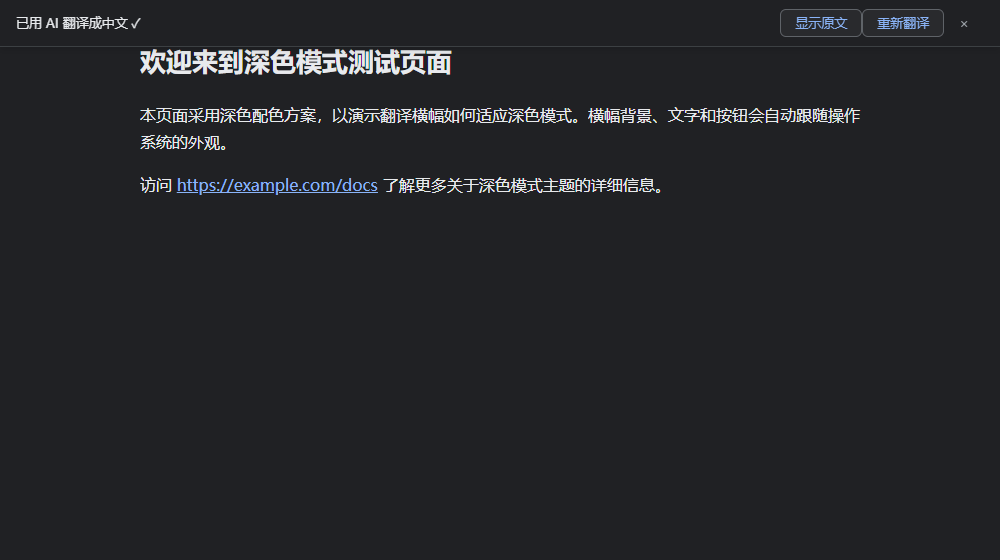
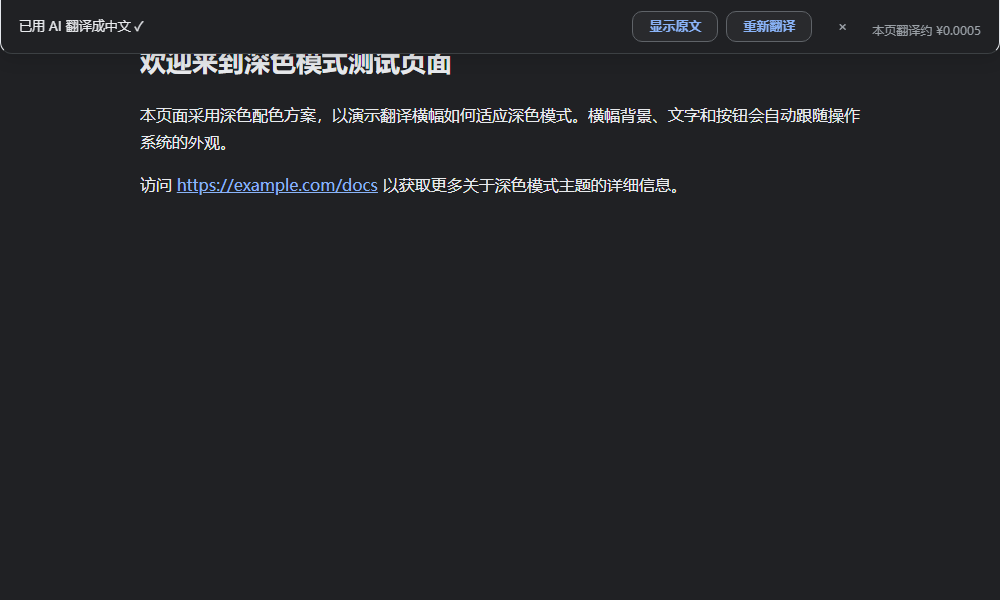
docs: regenerate README screenshots with v1.7.3 UI (offer/done-light/done-dark) and add bilingual view screenshot

diff --git a/README.en.md b/README.en.md
@@ -29,9 +29,9 @@ A browser extension (Manifest V3) for **Edge / Chrome**. Translations see full-p
 
 ## Screenshots
 
-| Translate offer | Translation done | Dark mode |
-|---|---|---|
-| ![Translate offer](screenshots/shot-offer.png) | ![Translation done](screenshots/shot-done-light.png) | ![Dark mode](screenshots/shot-done-dark.png) |
+| Translate offer | Translation done (light) | Dark mode | Bilingual view |
+|---|---|---|---|
+| ![Translate offer](screenshots/shot-offer.png) | ![Translation done](screenshots/shot-done-light.png) | ![Dark mode](screenshots/shot-done-dark.png) | ![Bilingual](screenshots/shot-bilingual.png) |
 
 ## Installation
 

diff --git a/README.md b/README.md
@@ -29,9 +29,9 @@
 
 ## 截图
 
-| 询问是否翻译 | 翻译完成 | 深色模式 |
-|---|---|---|
-| ![询问翻译](screenshots/shot-offer.png) | ![翻译完成](screenshots/shot-done-light.png) | ![深色模式](screenshots/shot-done-dark.png) |
+| 询问是否翻译 | 翻译完成（浅色） | 深色模式 | 双语对照 |
+|---|---|---|---|
+| ![询问翻译](screenshots/shot-offer.png) | ![翻译完成](screenshots/shot-done-light.png) | ![深色模式](screenshots/shot-done-dark.png) | ![双语对照](screenshots/shot-bilingual.png) |
 
 ## 安装
 
